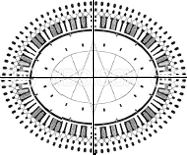
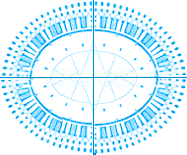
new cyan level images + various fixes

diff --git a/src/main/resources/kolloseum.rb b/src/main/resources/kolloseum.rb
@@ -19,28 +19,28 @@ profile = <<EOL
  XXXX    XXX   XX
  XXXX    XXX   XX
  XXXXXXXXXXXXXXXX
- XXXXX _XXXXX_XXXX
- XXXX ___XXX___XXXX
- XXXX ___XXX___XXXXX
- XXXX ___XXX___XXXXXX
- XXXX ___XXX___XXXXXXX
- XXXX ___XXX___XX  XXXX
- XXXX ___XXX___XX  __XXX
- XXXX ___XXX___XX   ___XXX
- XXXX ___XXX___XX    ____XXX
- XXXX ___XXX___XX      ____XXX
+ XXXXX  XXXXX XXXX
+ XXXX    XXX   XXXX
+ XXXX    XXX   XXXXX
+ XXXX    XXX   XXXXXX
+ XXXX    XXX   XXXXXXX
+ XXXX    XXX   XX  XXXX
+ XXXX    XXX   XX    XXX
+ XXXX    XXX   XX      XXX
+ XXXX    XXX   XX        XXX
+ XXXX    XXX   XX          XXX
  XXXXXXXXXXXXXXXXXXXXXXXXXXXXXXXX
- XXXXXXXXXXXX XXX      ____ XXX_XXX
- XXXXX  XXXX _ XX      ____ XX _ XXXX
- XXXX  _ XXX___XX      ____ XX___XX_ XX
- XXXX ___XXX___XX      ____ XX___XX_   XX
- XXXX ___XXX___XX      ____ XX___XX_     XX
- XXXX ___XXX___XX      ____ XX___XX_       XX
- XXXX ___XXX___XX      ____ XX___XX_         XX
- XXXX ___XXX___XX      ____ XX___XX_           XX
- XXXX ___XXX___XX      ____ XX___XX_           XX
- XXXX _ _XXX___XX      ____ XX___XX_           XX
- XXXX _ _XXX___XX      ____ XX___XX_           XX
+ XXXXXXXXXXXX XXX           XXX XXX
+ XXXXX  XXXX   XX           XX   XXXX
+ XXXX    XXX   XX           XX   XX  XX
+ XXXX    XXX   XX           XX   XX    XX
+ XXXX    XXX   XX           XX   XX      XX
+ XXXX    XXX   XX           XX   XX        XX
+ XXXX    XXX   XX           XX   XX          XX
+ XXXX    XXX   XX           XX   XX            XX
+ XXXX    XXX   XX           XX   XX            XX
+ XXXX    XXX   XX           XX   XX            XX
+ XXXX    XXX   XX           XX   XX            XX
 XXXXXXXXXXXXXXXXXXXXXXXXXXXXXXXXXXXXXXXXXXXXXXXXX
 X                                               X
 X                                               X

diff --git a/src/main/java/de/funky_clan/mc/ui/MainPanel.java b/src/main/java/de/funky_clan/mc/ui/MainPanel.java
@@ -8,7 +8,7 @@ import javax.swing.*;
 import java.awt.*;
 
 /**
- * @author paul.fritsche@googlemail.com
+ * @author synopia
  */
 public class MainPanel extends JPanel {
     private Configuration configuration;

diff --git a/src/main/java/de/funky_clan/mc/ui/PlayerInfoPanel.java b/src/main/java/de/funky_clan/mc/ui/PlayerInfoPanel.java
@@ -7,7 +7,7 @@ import javax.swing.*;
 import java.awt.*;
 
 /**
- * @author paul.fritsche@googlemail.com
+ * @author synopia
  */
 public class PlayerInfoPanel extends JPanel {
     private JTextArea textArea;
